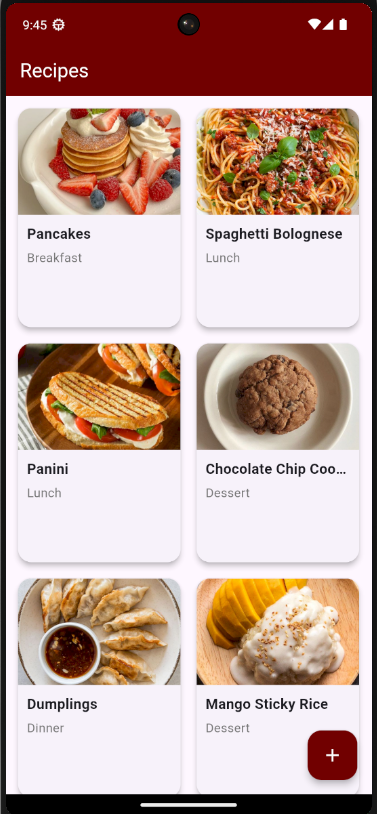
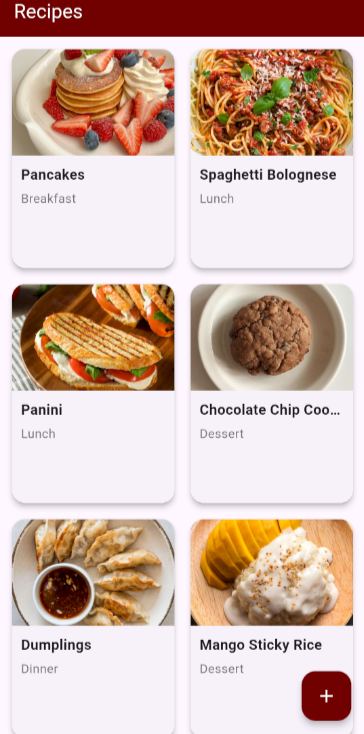
update the files

diff --git a/src/components/ProjectList.vue b/src/components/ProjectList.vue
@@ -15,10 +15,10 @@
         </div>
         <div class="p-6 rounded-lg md shadow-md bg-stone-500">
           <h3 class="text-xl font-semibold text-black">Recipe App</h3>
-          <div class="grid grid-cols-1 grid-cols-2 grid-cols-3 gap-8 mt-8">
-            <img src="/images/project2 (1).png" alt="MindGuard Project" class="w-48 h-auto mt-4 rounded-lg shadow-md" />
-            <img src="/images/project2 (2).png" alt="MindGuard Project" class="w-48 h-auto mt-4 rounded-lg shadow-md" />
-            <img src="/images/project2 (3).png" alt="MindGuard Project" class="w-48 h-auto mt-4 rounded-lg shadow-md" />
+          <div class="grid grid-cols-1 grid-cols-2 grid-cols-3 gap-2">
+            <img src="/images/project2 (1).png" alt="MindGuard Project" class="w-60 h-auto mt-4 rounded-lg shadow-md" />
+            <img src="/images/project2 (2).png" alt="MindGuard Project" class="w-60 h-auto mt-4 rounded-lg shadow-md" />
+            <img src="/images/project2 (3).png" alt="MindGuard Project" class="w-60 h-auto mt-4 rounded-lg shadow-md" />
           </div>
           <p class="mt-2 text-black">
             The Recipe App is a Flutter-based mobile application that allows users to browse, manage, and store recipes with detailed instructions and images, using JSON as the data source.
